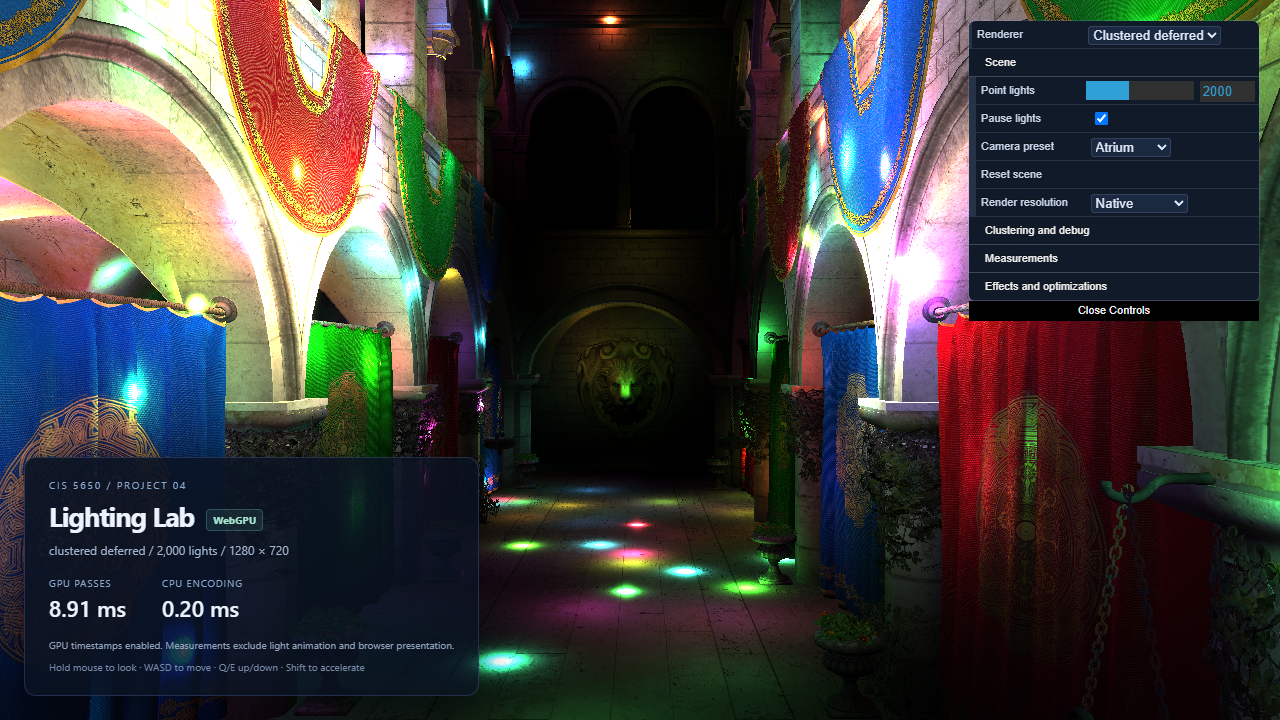
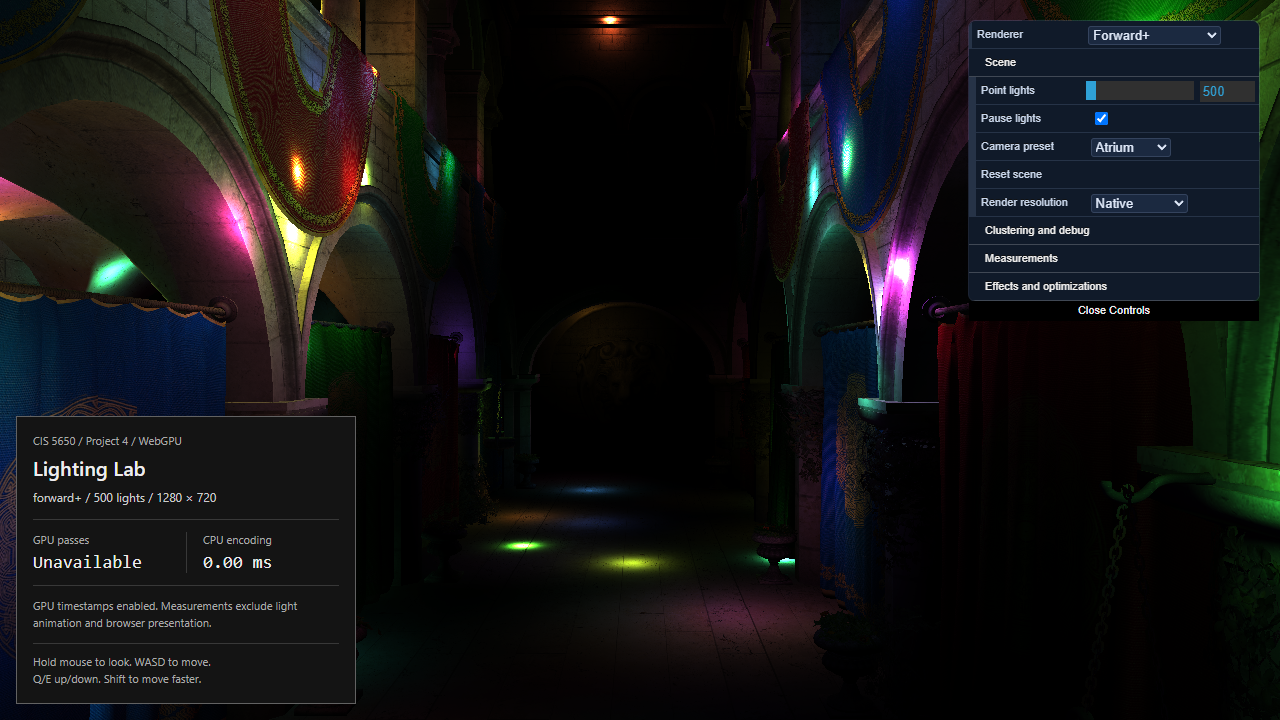
Simplify HUD styling and document GitHub Pages deployment

diff --git a/style.css b/style.css
@@ -7,24 +7,48 @@ html, body {
     font-family: system-ui, sans-serif;
 }
 
-#hud { position: absolute; left: 24px; bottom: 24px; max-width: 430px; pointer-events: none; padding: 20px 24px; background: linear-gradient(135deg, #0a1323ed, #0a1323bb); border: 1px solid #8aafff30; border-radius: 12px; box-shadow: 0 12px 40px #0006; }
-.eyebrow { color: #8ba7ce; font-size: 10px; letter-spacing: .18em; text-transform: uppercase; }
-h1 { font-size: 27px; font-weight: 650; letter-spacing: -.04em; margin: 6px 0 8px; }
-h1 span { font-size: 10px; color: #a8e6d1; background: #79d9b91a; border: 1px solid #79d9b940; border-radius: 4px; padding: 3px 6px; margin-left: 12px; vertical-align: middle; letter-spacing: .02em; }
-#scene-info { font-size: 12px; color: #a5b6d0; margin: 0; }
-.timings { display: flex; gap: 36px; margin: 18px 0 14px; }
-.timings span { display: block; color: #8ba7ce; font-size: 10px; text-transform: uppercase; letter-spacing: .08em; }
-.timings strong { display: block; font-size: 22px; font-variant-numeric: tabular-nums; font-weight: 550; margin-top: 3px; }
-#status, .help { color: #91a2bc; font-size: 10px; line-height: 1.6; margin: 6px 0 0; }
-.help { color: #778ba9; }
-#cancel-benchmark { pointer-events: auto; color: #e1eafa; background: #23344d; border: 1px solid #526784; border-radius: 4px; padding: 5px 10px; margin-top: 10px; cursor: pointer; }
+#hud {
+    position: absolute;
+    left: 16px;
+    bottom: 16px;
+    box-sizing: border-box;
+    width: 340px;
+    max-width: calc(100vw - 32px);
+    padding: 16px;
+    pointer-events: none;
+    background: #141414;
+    color: #ededed;
+    border: 1px solid #626262;
+}
+
+.project-label { color: #aaa; font-size: 11px; }
+#hud h1 { font-size: 20px; font-weight: 600; margin: 6px 0 8px; }
+#scene-info { font-size: 12px; color: #ccc; margin: 0; }
+
+.timings {
+    display: grid;
+    grid-template-columns: 1fr 1fr;
+    margin: 14px 0 12px;
+    padding: 12px 0;
+    border-top: 1px solid #383838;
+    border-bottom: 1px solid #383838;
+}
+
+.timings > div + div { border-left: 1px solid #383838; padding-left: 16px; }
+.timings span { display: block; color: #aaa; font-size: 11px; }
+.timings strong { display: block; font-family: ui-monospace, monospace; font-size: 18px; font-variant-numeric: tabular-nums; font-weight: 500; margin-top: 4px; }
+#status, .help { color: #aaa; font-size: 11px; line-height: 1.5; margin: 0; }
+.help { border-top: 1px solid #383838; padding-top: 10px; margin-top: 12px; }
+#cancel-benchmark { pointer-events: auto; color: #ededed; background: #242424; border: 1px solid #777; border-radius: 0; padding: 6px 10px; margin-top: 10px; cursor: pointer; }
+#cancel-benchmark:hover { background: #383838; }
+#cancel-benchmark:focus-visible { outline: 2px solid #ededed; outline-offset: 2px; }
 .dg.ac { z-index: 10 !important; }
 .dg.main { margin-right: 20px !important; margin-top: 20px; border: 1px solid #8aafff30; border-radius: 8px; overflow: hidden; }
 .dg .cr, .dg li.folder { border-color: #263347 !important; }
 .dg li:not(.folder), .dg .title { background: #101a29 !important; }
 .dg .property-name { color: #c9d7ec; }
 .dg select { color: #e1eafa; background: #1b2940; border: 1px solid #34435d; border-radius: 3px; }
-@media (max-width: 700px) { #hud { left: 12px; bottom: 12px; padding: 12px 16px; max-width: 280px; } .help { display: none; } .dg.main { margin-right: 12px !important; margin-top: 12px; } }
+@media (max-width: 700px) { #hud { left: 12px; bottom: 12px; padding: 12px; width: 280px; max-width: calc(100vw - 24px); } .help { display: none; } .dg.main { margin-right: 12px !important; margin-top: 12px; } }
 
 #mainCanvas {
     display: block;

diff --git a/index.html b/index.html
@@ -3,8 +3,9 @@
 <html>
   <head>
     <meta charset="utf-8">
+    <meta name="viewport" content="width=device-width, initial-scale=1">
     <link rel="icon" href="data:,">
-    <title>WebGPU Lighting Lab — Forward+ and Clustered Deferred</title>
+    <title>WebGPU Lighting Lab: Forward+ and Clustered Deferred</title>
 
     <link rel="stylesheet" href="./style.css">
   </head>
@@ -12,13 +13,13 @@
   <body>
     <canvas id="mainCanvas"></canvas>
     <aside id="hud">
-      <div class="eyebrow">CIS 5650 / Project 04</div>
-      <h1>Lighting Lab<span>WebGPU</span></h1>
-      <p id="scene-info">Loading Sponza…</p>
-      <div class="timings"><div><span>GPU passes</span><strong id="gpu-time">—</strong></div><div><span>CPU encoding</span><strong id="cpu-time">—</strong></div></div>
-      <p id="status" role="status">Initializing WebGPU…</p>
+      <div class="project-label">CIS 5650 / Project 4 / WebGPU</div>
+      <h1>Lighting Lab</h1>
+      <p id="scene-info">Loading Sponza...</p>
+      <div class="timings"><div><span>GPU passes</span><strong id="gpu-time">Pending</strong></div><div><span>CPU encoding</span><strong id="cpu-time">Pending</strong></div></div>
+      <p id="status" role="status">Initializing WebGPU...</p>
       <button id="cancel-benchmark" hidden>Cancel benchmark</button>
-      <p class="help">Hold mouse to look · WASD to move · Q/E up/down · Shift to accelerate</p>
+      <p class="help">Hold mouse to look. WASD to move.<br>Q/E up/down. Shift to move faster.</p>
     </aside>
     <script type="module" src="./src/main.ts"></script>
   </body>

diff --git a/src/main.ts b/src/main.ts
@@ -122,7 +122,7 @@ export async function runBenchmark(options: BenchmarkOptions = {}) {
                 lights.numLights = count;
                 lights.updateLightSetUniformNumLights();
                 setRenderer(mode);
-                status.textContent = `Measuring ${mode} · ${count} lights · run ${repeat + 1}/${repeats}`;
+                status.textContent = `Measuring ${mode} / ${count} lights / run ${repeat + 1}/${repeats}`;
                 const frames = await renderer.measureFrames(warmup, samples);
                 const clusters = mode === renderModes.naive ? null : await lights.getClusterStatistics();
                 runs.push({ mode, lights: count, repeat, summary: summarizeFrames(frames), frames, clusters });

diff --git a/README.md b/README.md
@@ -261,7 +261,21 @@ python scripts/plot_benchmarks.py
 
 ## Deployment and submission
 
-The workflow builds on pushes to `main`. Open the repository's **Settings**, select **Pages**, and choose **GitHub Actions** as the source. Enable workflows for the fork as well. After deployment, check that the scene loads and the controls work on the public URL. Submit the course PR with the title **Project 4: Faris Rafie Syahzani**. The [submission description](docs/submission.md) is ready to use.
+The [deployment workflow](.github/workflows/static.yml) builds the app and publishes `dist` when changes reach `main`. It sets the repository URL prefix and copies the scene assets during the build.
+
+1. In the fork's **Settings**, open **Pages**. Under **Build and deployment**, choose **GitHub Actions** as the source. The workflow is already included, so there is no need to create another one.
+2. Open the **Actions** tab and enable workflows if GitHub asks.
+3. Push the implementation branch:
+
+   ```sh
+   git push -u origin codex/lighting-lab
+   ```
+
+4. Open a pull request in this fork with `main` as the base and `codex/lighting-lab` as the compare branch, then merge it. This is separate from the course submission PR.
+5. In **Actions**, wait for **Deploy static content to Pages** to finish. If the code was already on `main` before Pages was enabled, open that workflow and use **Run workflow** on `main`.
+6. Open the [public demo](https://farisyahz.github.io/Project4-WebGPU-Forward-Plus-and-Clustered-Deferred/). Check that Sponza loads and the renderer controls work, then update the publication note at the top of this README.
+
+Submit the course PR with the title **Project 4: Faris Rafie Syahzani**. The [submission description](docs/submission.md) is ready to use.
 
 ## Credits
 
